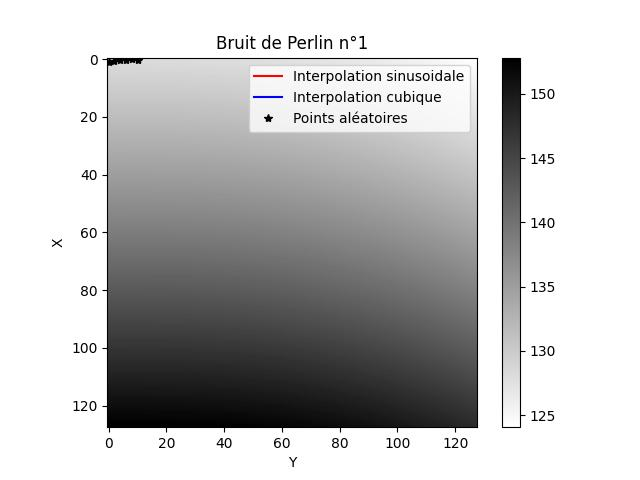
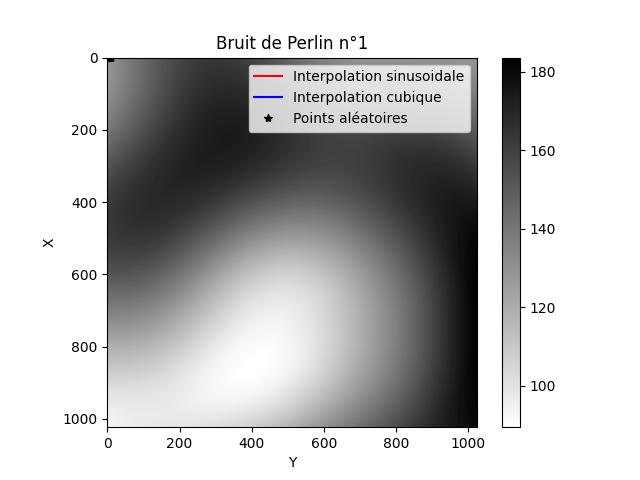
ihhyuyvytvsredxrftvgybhuni,kjhjghty-

diff --git a/HeightMap.py b/HeightMap.py
@@ -1,11 +1,13 @@
 # Importation
 
-from math import sqrt, sin, cos, pi
+
+from math import sin, cos, pi
 import numpy as np
 import matplotlib.pyplot as plt
 from tqdm import trange
 from matplotlib.colors import ListedColormap
 import imageio
+
 
 # Fonctions utiles
 
@@ -24,6 +26,7 @@ def gradient(c, x, y, nb_vecteur):
     vecteurs = np.array([[sin((k*2*pi)/nb_vecteur), cos((k*2*pi)/nb_vecteur)] for k in range(nb_vecteur)])
     co_gradient = vecteurs[c % nb_vecteur]
     return co_gradient[:, :, 0] * x + co_gradient[:, :, 1] * y
+
 
 # Bruit de Perlin
 
@@ -46,9 +49,9 @@ def Perlin_2D(precsision, pixels, taille, nb_vecteur):
     # On chope les coords vecteur dans les 4 coins de la grille
     # (haut gauche/droite, bas gauche/droite)
 
-    n00 = gradient(perm[perm[x_int] + y_int],         x_dec,     y_dec,     nb_vecteur)
+    n00 = gradient(perm[perm[x_int]     + y_int],     x_dec,     y_dec,     nb_vecteur)
     n10 = gradient(perm[perm[x_int + 1] + y_int],     x_dec - 1, y_dec,     nb_vecteur)
-    n01 = gradient(perm[perm[x_int] + y_int + 1],     x_dec,     y_dec - 1, nb_vecteur)
+    n01 = gradient(perm[perm[x_int]     + y_int + 1], x_dec,     y_dec - 1, nb_vecteur)
     n11 = gradient(perm[perm[x_int + 1] + y_int + 1], x_dec - 1, y_dec - 1, nb_vecteur)
     
     x_lis, y_lis = lissage(x_dec), lissage(y_dec)
@@ -87,6 +90,7 @@ def Bruit_Overworld(taille, pixels, precsision, amplitude, nb_vecteur):
 
         Cat = np.array([[0 for i in range(taille)] for j in range(taille)])
         Temp2 = sum(resultats)
+        Temp2 = fonction_passage(Temp2, Entre, Sortie)
         for i in range(taille):
             for j in range(taille):
                 s = Temp2[i][j]
@@ -151,7 +155,7 @@ def Bruit_Overworld(taille, pixels, precsision, amplitude, nb_vecteur):
     plt.title('Heightmap')
     plt.savefig("HeightMap_et_BdP_2D/Height_map")
 
-    return resultat, Cat
+    return fonction_passage(resultat, Entre, Sortie), Cat
 
 
 def Bruit_Arbres(pixels, precsision):
@@ -172,3 +176,32 @@ def Bruit_Arbres(pixels, precsision):
     resultat = sum(resultats)
 
     return resultat
+
+
+# Plateau
+
+def miniAfine(x1, x2, y1, y2, x):
+    pente = (y2 - y1) / (x2 - x1)
+    x -= x1
+    y = pente * x
+    y += y1
+    return y
+
+
+def fonction_passage(BdP, Entre, Sortie):
+    for i in range(1, len(Entre)):
+        for x in range(len(BdP)):
+            for y in range(len(BdP[x])):
+                if Entre[i-1] >= BdP[x, y] > Entre[i]:
+                    BdP[x, y] = int(miniAfine(Entre[i-1], Entre[i], Sortie[i-1], Sortie[i], BdP[x, y]))
+    plt.close("all")
+    ax = plt.axes()
+    ax.plot(Entre[1:-1], Sortie[1:-1], 'r')
+    ax.invert_yaxis()
+    ax.invert_xaxis()
+    plt.savefig("HeightMap_et_BdP_2D/Courbe_Plateau")
+    return BdP
+
+
+Entre = [256, 170, 155, 150, 130, 110, 105, 80, 0]
+Sortie = [200, 200, 190, 150, 146, 140, 90, 70, 70]

diff --git a/Overworld.py b/Overworld.py
@@ -39,7 +39,7 @@ def Patron_carte(BdP):
     # Création du tableau servant de support (rempli avec de la pierre) et des listes utiles
     Liste_o = []
     sable = []
-    Overworld = [[[Block.Block.Stone for y in range(taille)]
+    Overworld = [[[Block.Stone for y in range(taille)]
                   for z in range(hauteur)] for x in range(taille)]
     # Parcours tout le tableau
     for x in trange(taille):
@@ -439,7 +439,7 @@ def Make_an_Overworld(graine):
 
 # Seed et Dimensions
 graine = randrange(10000)
-taille = 128
+taille = 1024
 hauteur = 256
 # Neige, Lave, Eau, Arbre
 Hneige = 60
@@ -451,7 +451,7 @@ Chunks = 16
 mine = [(4,  Block.Coal,     20,  hauteur-4, .6, "black", .001),  # Charbon
         (3,  Block.Iron,      8, hauteur//2, .5,  "gray",   .5),  # Fer
         (3,  Block.Redstone,  4, hauteur//5, .6,   "red",   .4),  # RedBlock.Stone
-        (2,  Block.Gold,      4, hauteur//4, .5,  "Block.Gold",   .7),  # Or
+        (2,  Block.Gold,      4, hauteur//4, .5,  "Gold",   .7),  # Or
         (2,  Block.Diamond,   2, hauteur//6, .4,  "aqua",   .8)]  # Diamant
 # HeightMap
 nb_vecteur = 4
@@ -463,8 +463,10 @@ nb_pt_grotte = 6
 fr = 256
 ampl_grotte = 256
 nb_br_grotte = 6
-nb_grotte = 0
-
+nb_grotte = 12
+# Plateau
+Entre = [256, 170, 155, 150, 130, 110, 105, 80, 0]
+Sortie = [200, 200, 190, 150, 146, 140, 90, 70, 70]
 
 # Création de l'Overworld
 

diff --git a/Grotte.py b/Grotte.py
@@ -1,6 +1,6 @@
 # Importaion
 
-
+from math import cos, pi
 import random
 from random import randrange
 import numpy as np
